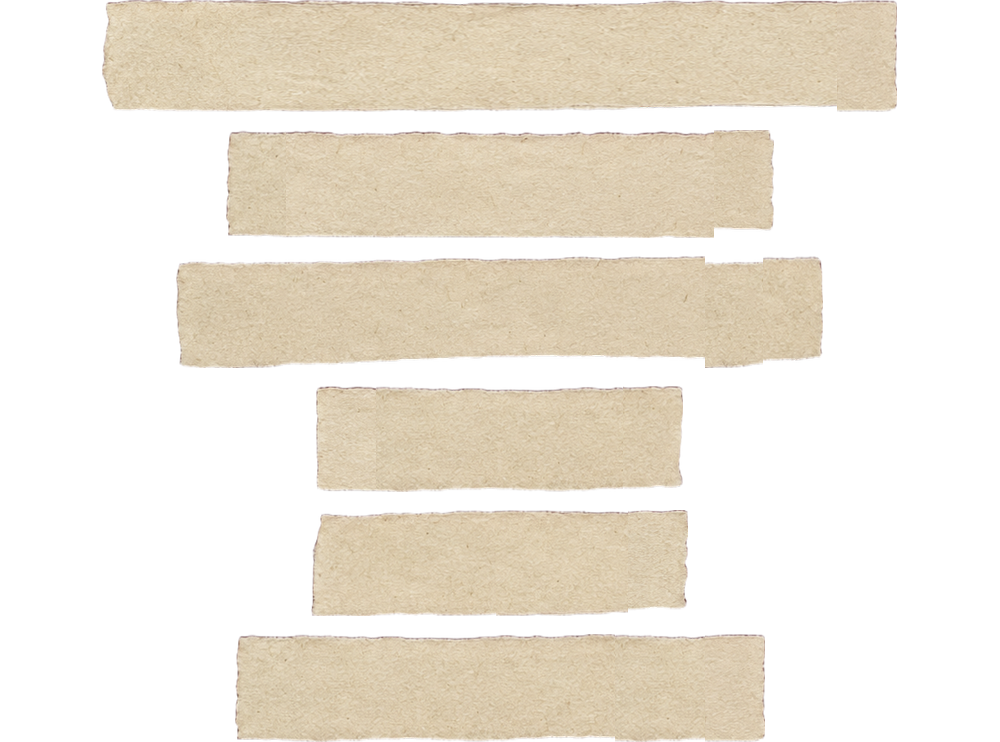
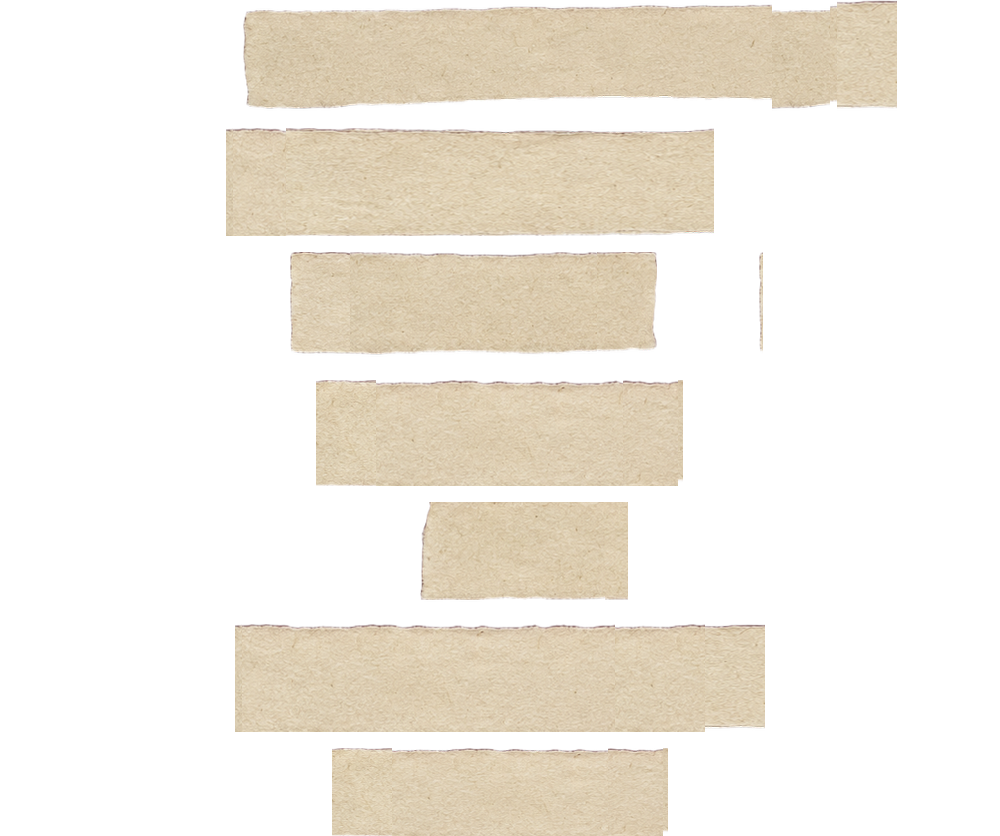
Add Sunwoo Jung-a Donggeo attribution tape to greeting memo

Changed region(s): [[0.093, 0.0, 0.899, 0.527], [0.217, 0.558, 0.775, 1.0]]

diff --git a/index.html b/index.html
@@ -13,7 +13,7 @@
   <link
     href="https://fonts.googleapis.com/css2?family=Gaegu:wght@400;700&family=Gowun+Batang:wght@400;700&family=Nanum+Pen+Script&family=Nothing+You+Could+Do&family=Reenie+Beanie&display=swap"
     rel="stylesheet">
-  <link rel="stylesheet" href="style.css?v=42">
+  <link rel="stylesheet" href="style.css?v=43">
 </head>
 
 <body>
@@ -48,13 +48,14 @@
       <div class="locket reveal"><img src="img/locket.png?v=27" alt="신랑신부 로켓 목걸이"></div>
 
       <div class="tapes reveal">
-        <img src="img/tape.png?v=3" alt="">
-        <p style="top:7.5%">사랑하는 사람과 삶을 함께 겪는 것은</p>
-        <p style="top:24.8%">정말 찬란한 행복이구나.</p>
-        <p style="top:42.0%">세상이 중요하다고 했던 것들을</p>
-        <p style="top:59.2%">초월하는 행복.</p>
-        <p style="top:75.9%">대단치 않아도</p>
-        <p style="top:92.7%">둘이서 매일을, 조그맣게</p>
+        <img src="img/tape.png?v=4" alt="">
+        <p style="top:6.6%">사랑하는 사람과 삶을 함께 겪는 것은</p>
+        <p style="top:21.8%">정말 찬란한 행복이구나.</p>
+        <p style="top:36.2%">세상이 중요하다고 했던 것들을</p>
+        <p style="top:51.8%">초월하는 행복.</p>
+        <p style="top:65.9%">대단치 않아도</p>
+        <p style="top:81.1%">둘이서 매일을, 조그맣게</p>
+        <p class="source" style="top:94.7%">- 선우정아, '동거' -</p>
       </div>
       <p class="msg reveal">
         서로의 든든한 안식처가 되어줄 시작의 날,<br>

diff --git a/style.css b/style.css
@@ -250,6 +250,12 @@ img {
   letter-spacing: -0.015em;
 }
 
+.tapes p.source {
+  font-size: 4.4cqw;
+  color: #4a3429;
+  letter-spacing: 0.02em;
+}
+
 .msg {
   font-size: 18px;
   line-height: 1.85;
